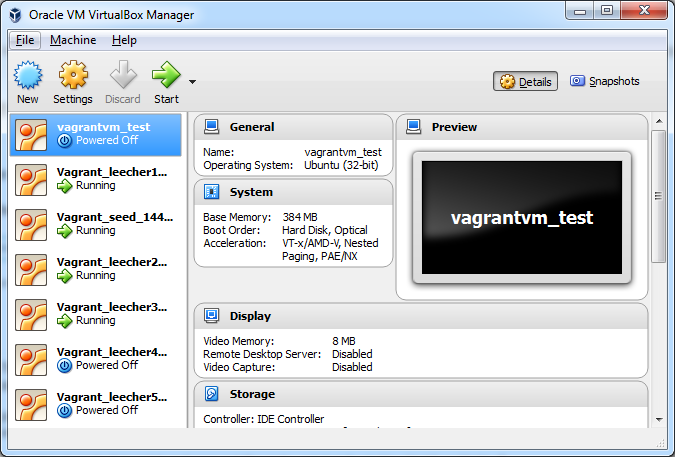
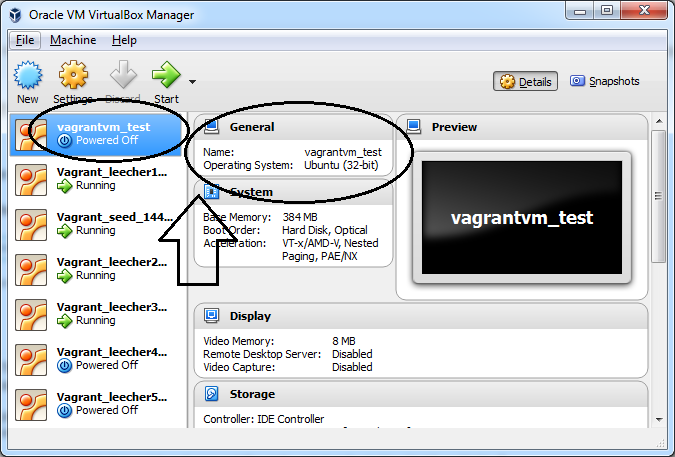
th - lil fattening + figures done

diff --git a/hu.bme.mit.vmdistribution.thesis/src/content/backgroundinfo.tex b/hu.bme.mit.vmdistribution.thesis/src/content/backgroundinfo.tex
@@ -26,6 +26,15 @@ Ezt a folyamatot tudjuk gyorsítani és leegyszerűsíteni a Vagrant\cite{vagran
 	\label{fig:vagrantfile}
 \end{figure}
 
+\Aref{fig:vmcreate}-es ábra egy virtuális gép létrehozásának folyamatát ábrázolja mind a Vagrant által létrehozott, mind a mi általunk manuálisan készített VM esetére.
+
+\begin{figure}[ht]
+	\centering
+	\includegraphics[height=140mm, keepaspectratio]{figures/vmcreate.png}
+	\caption{Virtuális gép létrehozásának a folyamata}
+	\label{fig:vmcreate}
+\end{figure}
+
 Egy virtuális gép reprezentálásához a gazdagépen alapvetően háromféle fájl szükséges legalább:
 
 \begin{itemize}
@@ -41,7 +50,7 @@ Ezeket a fájlokat terítjük a laborban.
 %----------------------------------------------------------------------------
 A Peer-to-Peer(P2P) hálózat olyan, aminek a csomópontjai nem egy kitüntetett géppel 
 kommunikálnak, hanem közvetlenül egymással. A klasszikus kliens-szerver és a P2P hálózat felépítését
-\aref{fig:networkcomparison}~ábra szemlélteti.
+\aref{fig:networkcomparison}-as ábra szemlélteti.
 
 \begin{figure}[ht]
 	\centering
@@ -71,16 +80,25 @@ Az itt felsorolt elemekből felépülő terítési megoldás leírásához lásd
 
 Gépeinkre telepítendő torrentkliens esetében az rtorrent-re\cite{sundell2012libtorrent} esett a választás, mivel szükségünk van arra, hogy olyan klienst használjunk, amit a háttérben is tudunk futtatni, illetve az állapota valami módon távolról is lekérhető legyen. Az rtorrent rendelkezik egy XMLRPC\cite{merrick2006xml} alapú interfésszel, aminek segítségével távolról is vezérelhetővé válik. Ilyen interfészt használ a számos rtorrent-hez írt webes felület is, például a legismertebb ruTorrent\cite{rutorrent}. Természetesen minden rtorrent-et futtató gépre telepítenünk kell egy webszervert is, ami az XMLRPC kéréseinket eljuttatja magának a torrentkliensnek, itt a választás az apache-ra\cite{fielding1997apache} esett főleg könnyű telepítése és konfigurálása miatt.
 
-Tracker-ből az opentracker nevű került fel egy gépre (az egyszerűség kedvéért arra, amelyiket a terítések során seed-nek fogunk használni). Választásunk rá azért esett, mert különösebb funkcionális különbség nincs a lehetséges jelöltek között, ezt viszont könnyen lehet telepíteni a laborgépeken futó operációs rendszer csomagkezelőjéből. Amiről még eddig nem esett szó, az a protokoll működéséhez szükséges, metaadatokat tartalmazó fájl, a torrentfájl. Ez tárolja az adott letöltéshez tartozó fájlok hash-eit, amik adott fájl tartalmából előállított egyedi hexadecimális számok, tulajdonságuk, hogy ugyanarra a fájlra mindig ugyanaz a szám áll elő, másikra pedig (szinte) biztosan különböző, ezek alapján tudjuk ellenőrizni a letöltött adatok hibamentességét. A torrent fájl tartalmazza még ezen kívül a küldendő fájlok mappastruktúráját, metaadatait (pl. fájlnév, fájlméret) és a tracker címét. A torrentkliens és a tracker egy torrentfájlra az infohash alapján hivatkozik, ami a torrentfájl hash-ének kódolásával kapható meg, erre nekünk később akkor lesz szükségünk, amikor majd a terítés közben annak állapotának lekérésekor hivatkozni akarunk egy átvitelre.
+Tracker-ből az opentracker nevű került fel egy gépre (az egyszerűség kedvéért arra, amelyiket a terítések során seed-nek fogunk használni). Választásunk rá azért esett, mert különösebb funkcionális különbség nincs a lehetséges jelöltek között, ezt viszont könnyen lehet telepíteni a laborgépeken futó operációs rendszer csomagkezelőjéből. Amiről még eddig nem esett szó, az a protokoll működéséhez szükséges, metaadatokat tartalmazó fájl, a torrentfájl. Ez tárolja az adott letöltéshez tartozó fájlok hash-eit, amik adott fájl tartalmából előállított egyedi hexadecimális számok, tulajdonságuk, hogy ugyanarra a fájlra mindig ugyanaz a szám áll elő, másikra pedig szinte biztosan különböző, ezek alapján tudjuk ellenőrizni a letöltött adatok hibamentességét. A torrent fájl tartalmazza még ezen kívül a küldendő fájlok mappastruktúráját, metaadatait (pl. fájlnév, fájlméret) és a tracker címét. A torrentkliens és a tracker egy torrentfájlra az infohash alapján hivatkozik, ami a torrentfájl hash-ének kódolásával kapható meg, erre nekünk később akkor lesz szükségünk, amikor majd a terítés közben annak állapotának lekérésekor hivatkozni akarunk egy átvitelre.
 
 Torrentfájlok létrehozására az mktorrent-et\cite{mktorrent} fogjuk használni.
+
+\Aref{fig:torrentflow}-es ábrán egy fájl torrent alapú terítésének a folyamatát illusztrálja, onnan kezdve, hogy a fájl már a seed gépre van másolva odáig, hogy elkezdődik a célgépek által a fájl letöltése.
+
+\begin{figure}[ht]
+	\centering
+	\includegraphics[width=150mm, keepaspectratio]{figures/torrentflow.png}
+	\caption{Egy fájl torrent alapú terítésének folyamata.}
+	\label{fig:torrentflow}
+\end{figure}
 
 
 %----------------------------------------------------------------------------
 \section{Metamodellezés}
 %----------------------------------------------------------------------------
 Egy fájlterítés indításához két dologra van szükségünk, hogy mit és hova szeretnénk teríteni. Előző kérdésre \aref{sect:p2p}-es fejezet választ adott, az utóbbira ez fog. A ``hovának'' megadását sokféleképpen elképzelhetjük,  felhasználói szemszögből az lenne a legjobb, ha egyszerűen azt mondhatnánk, hogy ``az IB413-as laborban a Mérés Labor 4. tárgyhoz tartozó környezet terüljön.'' Fontos, hogy képes legyen az alkalmazás egy ilyen kérést végrehajtani, ha a kérést számára értelmezhetőbb formában adjuk át. 
-A virtuális gép terítési feladatokat érdemes egy saját, úgynevezett szakterület-specifikus nyelven modellezni (angolul Domain-Specific Language, DSE). Egy szakterület-specifikus nyelv legfőbb koncepcióit, kapcsolatait és alapvető struktúráját határozza meg a metamodell. Például egy labor metamodellje alatt egy olyan nyelvet kell elképzelni, amiben leírható tetszőleges oktatási labor. \Aref{fig:emfobj}-as ábra egy ilyen metamodell egyik osztályát ábrázolja.
+A virtuális gép terítési feladatokat érdemes egy saját, úgynevezett szakterület-specifikus nyelven modellezni (angolul Domain-Specific Language, DSE). Egy szakterület-specifikus nyelv legfőbb koncepcióit, kapcsolatait és alapvető struktúráját határozza meg a metamodell. Például egy labor metamodellje alatt egy olyan nyelvet kell elképzelni, amiben leírható tetszőleges oktatási labor. \Aref{fig:emfobj}-ös ábra egy ilyen metamodell egyik osztályát ábrázolja.
 
 \begin{figure}[ht]
 	\centering
@@ -89,7 +107,7 @@ A virtuális gép terítési feladatokat érdemes egy saját, úgynevezett szakt
 	\label{fig:emfobj}
 \end{figure}
 
-Metamodell osztályok között lehetnek kapcsolatok is, amelyek közül a két legfontosabb a tartalmazás(kompozíció) és a referencia. \Aref{fig:emfcomp}-es ábrán egy kompozícióra, \ref{fig:emfref}-ösön egy referenciára láthatunk példát.
+Metamodell osztályok között lehetnek kapcsolatok is, amelyek közül a két legfontosabb a tartalmazás(kompozíció) és a referencia. \Aref{fig:emfcomp}-os ábrán egy kompozícióra, \ref{fig:emfref}-esen egy referenciára láthatunk példát.
 
 \begin{figure}[ht!]
 	\centering

diff --git a/hu.bme.mit.vmdistribution.thesis/src/content/implementation.tex b/hu.bme.mit.vmdistribution.thesis/src/content/implementation.tex
@@ -119,6 +119,17 @@ A futtatást a program fejlesztésére használt gépen végeztem el. A teríté
   \item Olyan célállapot, amivel minden lehetséges hiba meg fog jelenni a futás során
 \end{itemize}
 
+\Aref{fig:testmodel}-as ábra ábrázolja a labormodellt, szaggatott vonallal jelölve azokat a VM$\rightarrow$PC átviteleket, amelyek nem fognak sikerülni.
+
+\begin{figure}[h]
+\centering
+\includegraphics[width=130mm, keepaspectratio]{figures/testmodel.png}
+\caption{A program bemenetének használt labormodell}
+\label{fig:testmodel}
+\end{figure}
+
+\FloatBarrier
+
 Mielőtt végigkövetnénk a futtatást érdemes végiggondolni, hogy mi lenne az elvárt eredmény, milyen fontosabb lépéseket és milyen sorrendben fog a program végrehajtani:
 
 \begin{enumerate}
@@ -135,7 +146,7 @@ A program indítása után rögtön a várt figyelmeztetések jelennek meg a kon
 
 \code{2015-12-08 00:21:48 WARNING hu.bme.mit.vmdistribution.app.EMFModelUtil isCompatible WARNING:\_Computer:labpc104 is not compatible with Virtual Machine:vagrantvm\_test, Not enough RAM!}
 
-Majd meghívódik a Vagrant és létrehozza, valamint beállítja a hozzá tartozó VM-et. \Aref{fig:vboxcap}-as~ábrán látható, hogy a VirtualBox VM-eket tartalmazó mappájába már bele is került az új virtuális gép és meg is jelenik annak a felületén.
+Majd meghívódik a Vagrant és létrehozza, valamint beállítja a hozzá tartozó VM-et. \Aref{fig:vboxcap}-es~ábrán látható, hogy a VirtualBox VM-eket tartalmazó mappájába már bele is került az új virtuális gép és meg is jelenik annak a felületén. Ezen és a következő képernyőkép-részleteken is jelölve vannak a releváns részek.
 
 \begin{figure}[ht]
 \centering
@@ -147,7 +158,7 @@ A kész virtuális gépből a program létrehoz egy tömörített .zip állomán
 
 \code{2015-12-08 00:37:03 INFO hu.bme.mit.vmdistribution.app.vmutil.Archiver createZipArchive Creating Archive: E:\textbackslash{}vagrantvm\_test.zip}
 
-\ldots majd a két VM felkerül a seed-re, ahogy \aref{fig:seed_files}-es~ábrán ez látszik is:  a seed-del SSH kapcsolat létesítése után kilistázzuk azoknak a mappáknak a tartalmát ahová a VM-eket tartalmazó zip fájlok, illetve az azok alapján készített torrent fájlok kerültek.
+\ldots majd a két VM felkerül a seed-re, ahogy \aref{fig:seed_files}-ös~ábrán ez látszik is:  a seed-del SSH kapcsolat létesítése után kilistázzuk azoknak a mappáknak a tartalmát ahová a VM-eket tartalmazó zip fájlok, illetve az azok alapján készített torrent fájlok kerültek.
 
 \begin{figure}[ht]
 \centering
@@ -156,7 +167,7 @@ A kész virtuális gépből a program létrehoz egy tömörített .zip állomán
 \label{fig:seed_files}
 \end{figure}
 
-Ezután az alkalmazás a torrent fájlokat átmásolja a megfelelő célgépekre, és elindítja rajtuk a torrentklienst. A seed-en futó torrentklienst megnyitva ellenőrizhetjük, hogy elkezdődött-e az adatátvitel (\ref{fig:seed_torrent}-ös ábra). A feltöltési limit kézzel alacsonyra lett állítva, hogy a folyamatok megfigyelhetőek legyenek.
+Ezután az alkalmazás a torrent fájlokat átmásolja a megfelelő célgépekre, és elindítja rajtuk a torrentklienst. A seed-en futó torrentklienst megnyitva ellenőrizhetjük, hogy elkezdődött-e az adatátvitel (\ref{fig:seed_torrent}-os ábra). A feltöltési limit kézzel alacsonyra lett állítva, hogy a folyamatok megfigyelhetőek legyenek.
 
 \begin{figure}[ht]
 \centering
@@ -165,7 +176,7 @@ Ezután az alkalmazás a torrent fájlokat átmásolja a megfelelő célgépekre
 \label{fig:seed_torrent}
 \end{figure}
 
-A két futó fájlátvitel részleteit megnézve ellenőrizhetjük, hogy a megfelelő gépek töltenek-e le. Például a mi általunk készített VM-et tartalmazó testvm.zip-et a labpc101 és 103-nak kellene töltenie, lásd \ref{fig:seed_peers}-os~ábra (a két gép IP címe .111 ill. .113-ra végződik).
+A két futó fájlátvitel részleteit megnézve ellenőrizhetjük, hogy a megfelelő gépek töltenek-e le. Például a mi általunk készített VM-et tartalmazó testvm.zip-et a labpc101 és 103-nak kellene töltenie, lásd \ref{fig:seed_peers}-es~ábra (a két gép IP címe .111 ill. .113-ra végződik).
 
 \begin{figure}[ht]
 \centering

diff --git a/hu.bme.mit.vmdistribution.thesis/src/include/packages.tex b/hu.bme.mit.vmdistribution.thesis/src/include/packages.tex
@@ -15,6 +15,7 @@
 \usepackage{multirow}
 \usepackage{array}
 \usepackage{program}
+\usepackage[section]{placeins}
 
 %\usepackage{fancyhdr}
 %\usepackage{lastpage}
